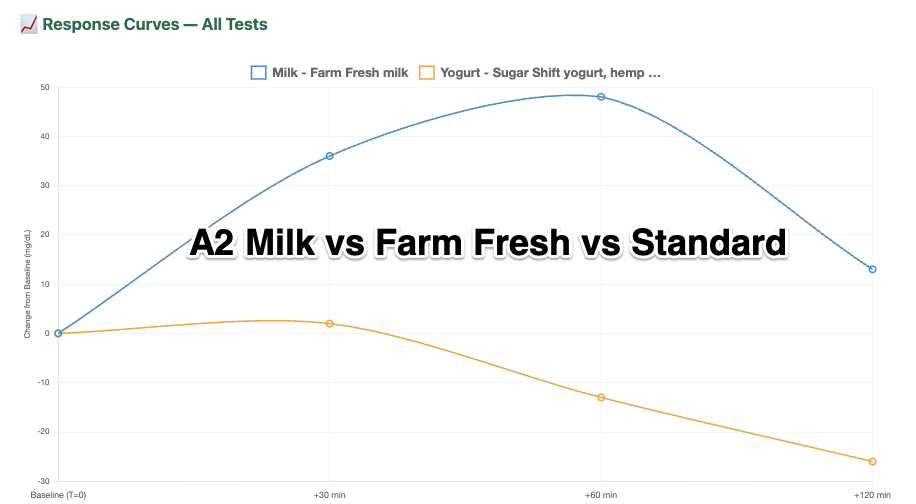
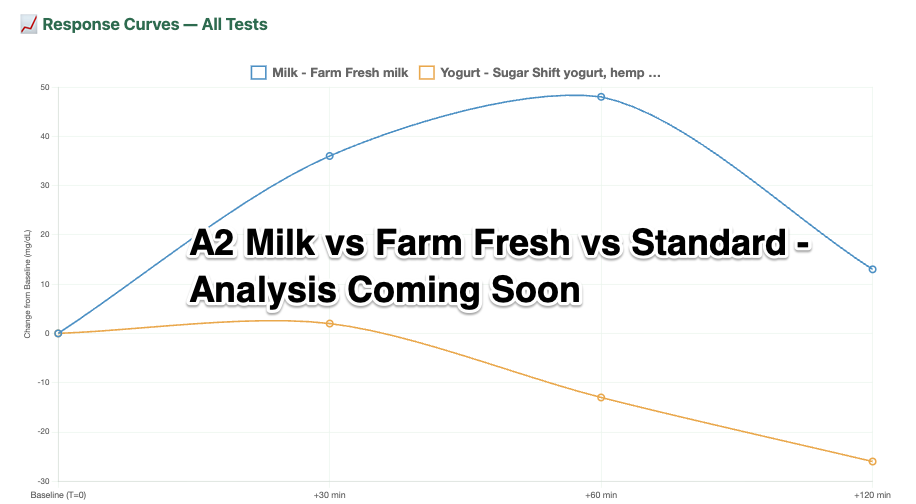
Slideshow updated so that rapidly changing image files for food test comparisons will always show what is currently in the folder and no removed ones will end up persisting.

Changed region(s): [[0.1834, 0.5357, 0.6419, 0.625], [0.8559, 0.4762, 0.8865, 0.506]]

diff --git a/food-response-testing.html b/food-response-testing.html
@@ -998,12 +998,62 @@ function confirmClearAll(){
 let curveChart=null;
 let legendHoverTip=null;
 const curveVisibilityOverrides=Object.create(null);
-const COMPARISON_IMAGES=[
-  'Bread - Tapioca Starch vs Almond Flour.png',
-  'Exercise - Walking vs sitting.png',
-  'Milk - A2 Milk vs Farm Fresh vs Standard.png'
-];
+const COMPARISON_FOLDER='food-test-comparisons/';
+const COMPARISON_MANIFEST='food-test-comparisons/index.json';
+let comparisonImages=[];
 let comparisonIndex=0;
+const comparisonAssetVersion=Date.now();
+
+function isSupportedComparisonImage(fileName){
+  return /\.(png|jpe?g|webp|gif|svg)$/i.test(fileName);
+}
+
+async function loadComparisonImages(){
+  let loadedFromManifest=false;
+
+  try {
+    const manifestResponse = await fetch(`${COMPARISON_MANIFEST}?scan=${Date.now()}`, { cache:'no-store' });
+    if(manifestResponse.ok){
+      const manifest = await manifestResponse.json();
+      const files = Array.isArray(manifest)
+        ? manifest
+        : Array.isArray(manifest?.images)
+          ? manifest.images
+          : [];
+      const names = files
+        .map(name => String(name || '').trim())
+        .filter(Boolean)
+        .filter(isSupportedComparisonImage);
+
+      comparisonImages = Array.from(new Set(names)).sort((a,b)=>a.localeCompare(b, undefined, { sensitivity:'base' }));
+      loadedFromManifest = comparisonImages.length > 0;
+    }
+  } catch {
+    loadedFromManifest = false;
+  }
+
+  if(!loadedFromManifest){
+  try {
+    const response = await fetch(`${COMPARISON_FOLDER}?scan=${Date.now()}`, { cache:'no-store' });
+    if(!response.ok){ throw new Error('Could not read comparison folder.'); }
+    const html = await response.text();
+    const doc = new DOMParser().parseFromString(html, 'text/html');
+    const names = Array.from(doc.querySelectorAll('a[href]'))
+      .map(link => String(link.getAttribute('href') || '').split('#')[0].split('?')[0])
+      .map(path => decodeURIComponent(path).replace(/\/$/, ''))
+      .map(path => path.split('/').pop() || '')
+      .filter(Boolean)
+      .filter(isSupportedComparisonImage);
+
+    comparisonImages = Array.from(new Set(names)).sort((a,b)=>a.localeCompare(b, undefined, { sensitivity:'base' }));
+  } catch {
+    comparisonImages = [];
+  }
+  }
+
+  comparisonIndex = 0;
+  renderComparisonSlide();
+}
 
 function renderComparisonSlide(){
   const stage=document.getElementById('comparison-stage');
@@ -1011,29 +1061,29 @@ function renderComparisonSlide(){
   const countEl=document.getElementById('comparison-count');
   if(!stage||!nameEl||!countEl) return;
 
-  if(!COMPARISON_IMAGES.length){
+  if(!comparisonImages.length){
     stage.innerHTML='<div class="comparison-empty">No comparison images found in food-test-comparisons.</div>';
     nameEl.textContent='';
     countEl.textContent='0/0';
     return;
   }
 
-  if(comparisonIndex<0) comparisonIndex=COMPARISON_IMAGES.length-1;
-  if(comparisonIndex>=COMPARISON_IMAGES.length) comparisonIndex=0;
+  if(comparisonIndex<0) comparisonIndex=comparisonImages.length-1;
+  if(comparisonIndex>=comparisonImages.length) comparisonIndex=0;
 
-  const filename=COMPARISON_IMAGES[comparisonIndex];
-  const imagePath='food-test-comparisons/'+filename;
+  const filename=comparisonImages[comparisonIndex];
+  const imagePath=COMPARISON_FOLDER+filename;
   stage.innerHTML='';
   const img=document.createElement('img');
   img.alt=filename;
-  img.src=encodeURI(imagePath);
+  img.src=encodeURI(imagePath)+'?v='+comparisonAssetVersion;
   img.onerror=function(){
     stage.innerHTML='<div class="comparison-empty">Image could not be loaded: '+filename+'</div>';
   };
   stage.appendChild(img);
 
   nameEl.textContent=filename;
-  countEl.textContent=(comparisonIndex+1)+'/'+COMPARISON_IMAGES.length;
+  countEl.textContent=(comparisonIndex+1)+'/'+comparisonImages.length;
 }
 
 function showComparisonNext(){
@@ -1248,7 +1298,7 @@ function render(){
 
 // Init
 document.getElementById('f-date').value=todayISO();
-renderComparisonSlide();
+loadComparisonImages();
 render();
 </script>
 </body>
